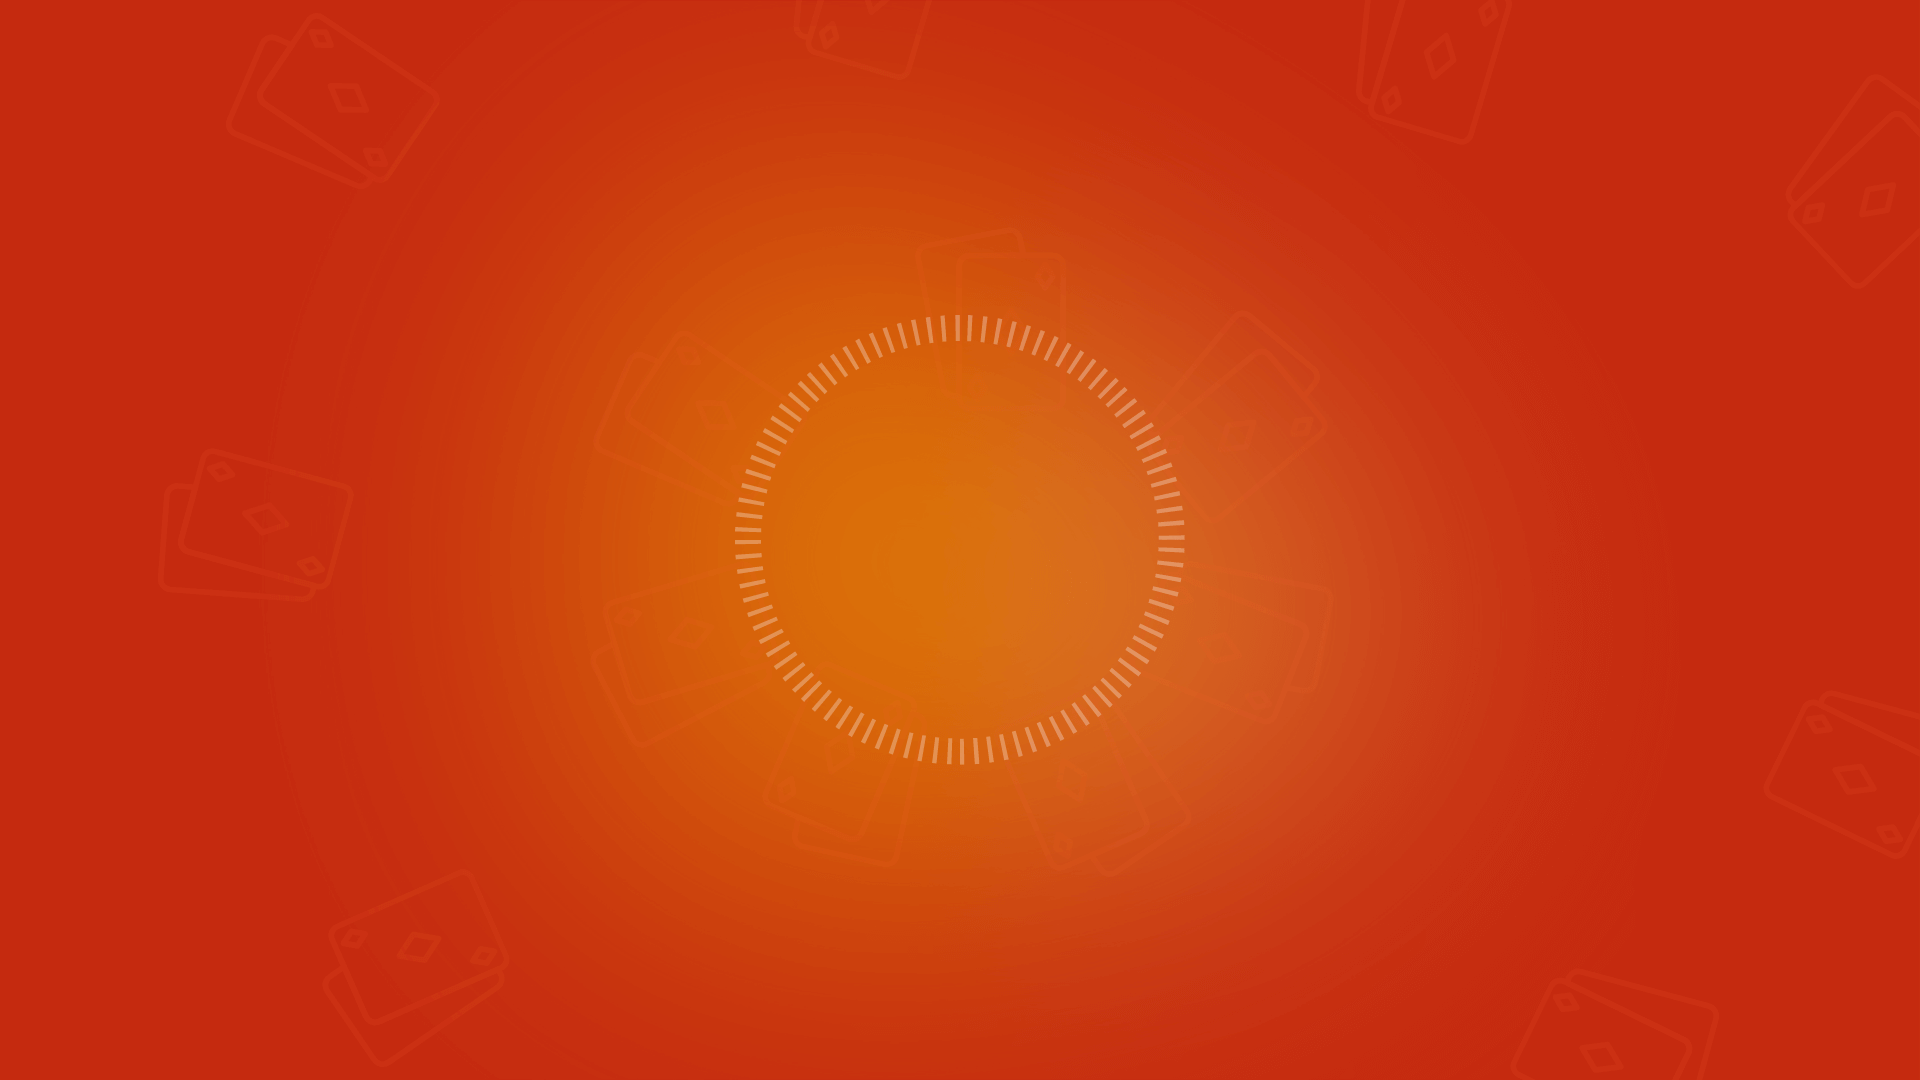
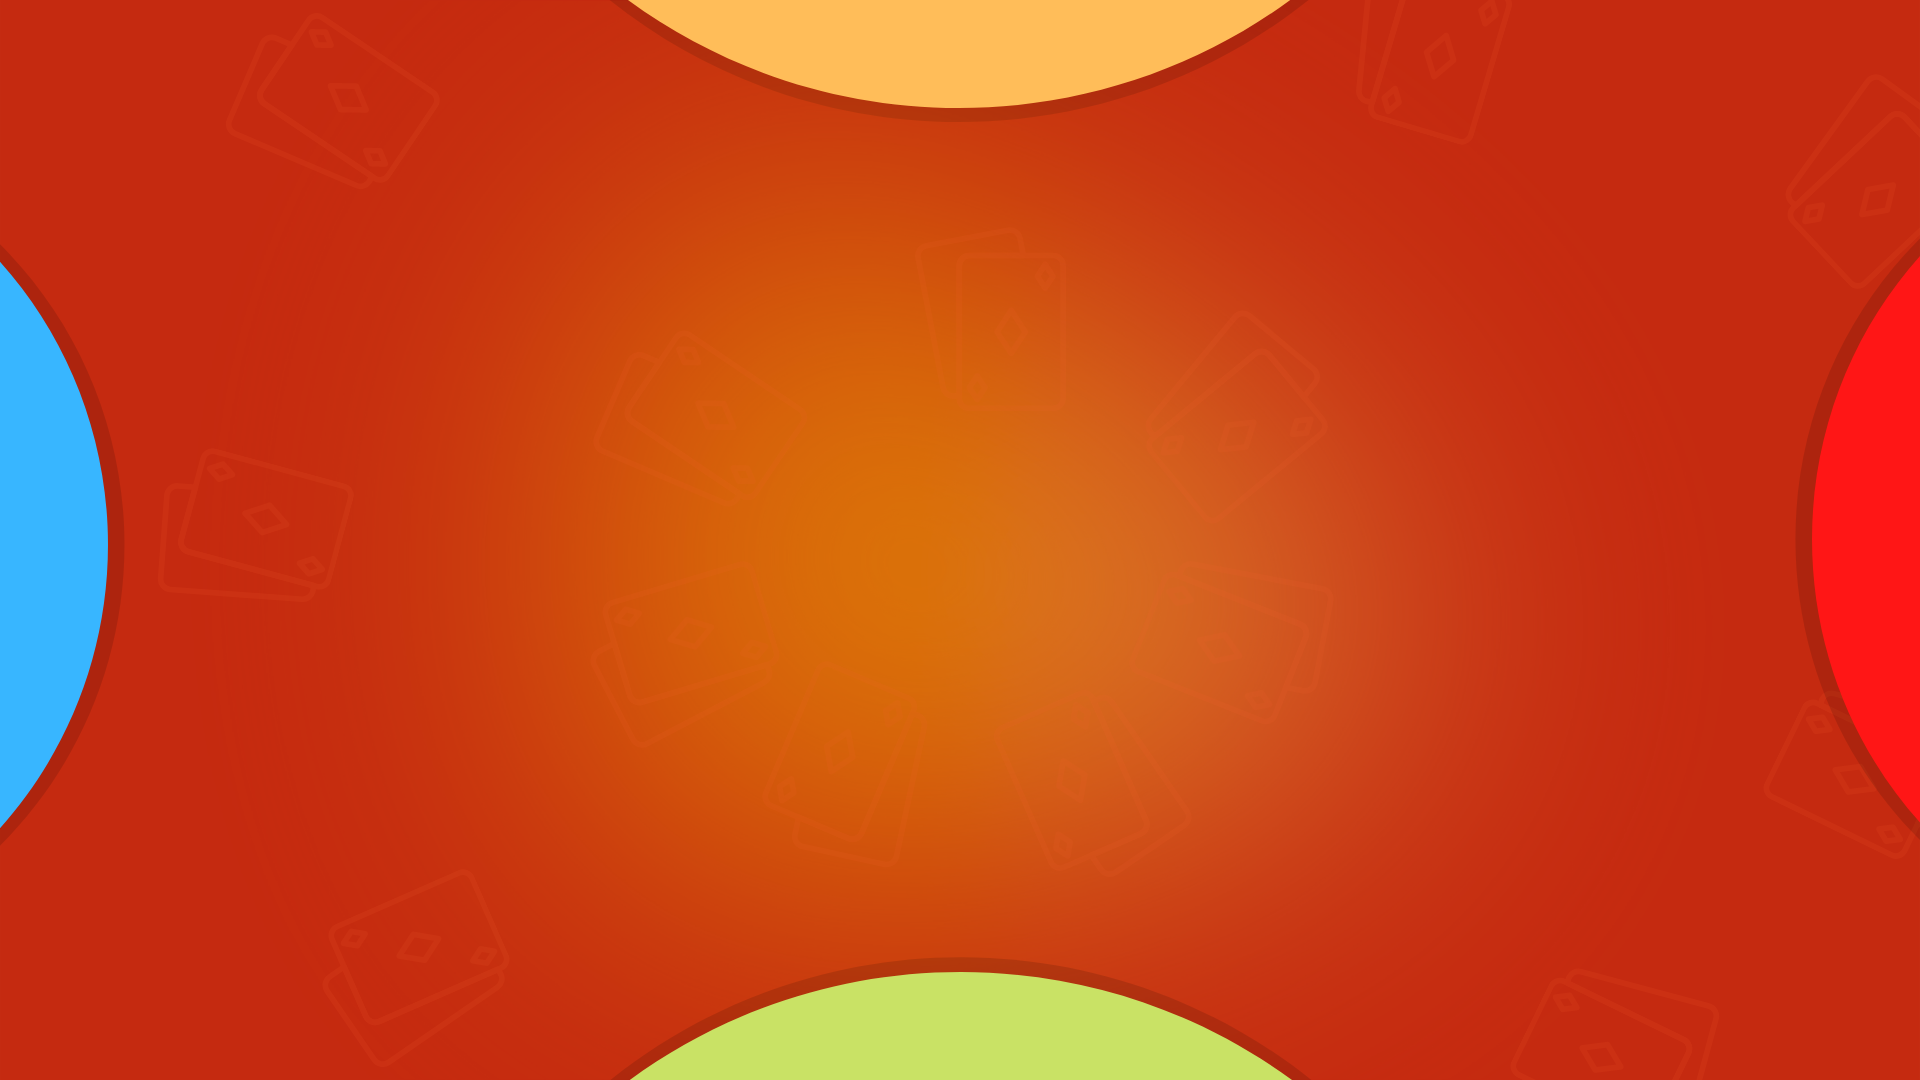
feat: add players

diff --git a/src/game/Controller/Deck/DeckController.ts b/src/game/Controller/Deck/DeckController.ts
@@ -1,6 +1,12 @@
 import CardDeck from "../../Objetcs/Entities/Cards/CardDeck";
 import DeckSprite from "../../../view/sprites/cards/DeckSprite";
 import SelectedCardSprite from "../../../view/sprites/cards/SelectedCardSprite";
+import Player from "../../Objetcs/Entities/Player/Player";
+import HandCardList from "../../Objetcs/Entities/Player/HandCardList";
+import PlayerRoundIterator from "../../Objetcs/Entities/Player/PlayerRoundIterator";
+import Sprite = Phaser.GameObjects.Sprite;
+import Text = Phaser.GameObjects.Text;
+import Image = Phaser.GameObjects.Image;
 
 export default class DeckController {
 
@@ -26,9 +32,12 @@ export default class DeckController {
     protected heightScreen: number;
 
     protected deckSprite: DeckSprite;
-    protected selectedCardSprite : SelectedCardSprite;
+    protected selectedCardSprite: SelectedCardSprite;
 
-    private readonly _cardSize : number = 0.2;
+    private readonly _cardSize: number = 0.2;
+    private midCircle: Sprite;
+
+    private playerRoundIterator: PlayerRoundIterator;
 
     constructor(scene: Phaser.Scene) {
         this.scene = scene;
@@ -37,8 +46,19 @@ export default class DeckController {
         this.heightScreen = this.scene.sys.game.canvas.height;
     }
 
-    public create(): void {
+    public start(): void {
         this.cardDeck.shuffle();
+        this.playerRoundIterator = new PlayerRoundIterator(this.createPlayers());
+
+        this.playerRoundIterator.players.map((player: Player, index: number) => {
+            this.scene.load.image(`player_user_photo_${index}`, player.picture);
+        });
+    }
+
+    public create(): void {
+        this.midCircle = this.scene.add.sprite(this.widthScreen / 2 + 24, this.heightScreen / 2 + 15, 'white-circle');
+        this.midCircle.setScale(1.4);
+
         this.createCardsUnderDeck();
 
         let shadow = this.scene.add.sprite((this.widthScreen / 2 + 80) + 3, (this.heightScreen / 2 + 15) + 3, 'Deck');
@@ -48,6 +68,64 @@ export default class DeckController {
 
         this.selectedCardSprite = new SelectedCardSprite(this.scene, this.widthScreen / 2 + 80, this.heightScreen / 2 + 15, this.cardDeck.cards[0]);
         this.selectedCardSprite.setScale(this._cardSize);
+
+
+        this.playerRoundIterator.players.map((player: Player, index: number) => {
+
+            let cardPositionX, cardPositionY, cardRotation = 0;
+            let uiPositionX, uiPositionY;
+
+            if (index === 0) {
+                cardPositionX = this.widthScreen / 2;
+                cardPositionY = this.heightScreen - 80;
+                cardRotation = 0;
+
+                uiPositionX = 140;
+                uiPositionY = this.heightScreen - 40;
+
+            } else if (index === 1) {
+                cardPositionX = this.widthScreen / 2;
+                cardPositionY = 80;
+                cardRotation = 0;
+
+                uiPositionX = this.widthScreen - 100;
+                uiPositionY = 40;
+
+            } else if (index === 2) {
+                cardPositionX = this.widthScreen - 80;
+                cardPositionY = this.heightScreen / 2;
+                cardRotation = 90;
+
+                uiPositionX = this.widthScreen - 80;
+                uiPositionY = this.heightScreen - 40;
+
+            } else if (index === 3) {
+                cardPositionX = 110;
+                cardPositionY = this.heightScreen / 2;
+                cardRotation = 270;
+
+                uiPositionX = 140;
+                uiPositionY = 40;
+
+            }
+
+            let playerText: Text = this.scene.make.text({
+                x: uiPositionX,
+                y: uiPositionY,
+                text: player.name,
+                style: {
+                    font: '20px monospace',
+                }
+            });
+
+            playerText.setOrigin(0.5, 0.5);
+            let playerImage: Image = this.scene.add.image(uiPositionX - 80, uiPositionY, `player_user_photo_${index}`);
+            playerImage.setScale(0.1);
+
+            let card: Sprite = this.scene.add.sprite(cardPositionX, cardPositionY, 'Deck');
+            card.setAngle(cardRotation);
+            card.setScale(this._cardSize);
+        });
     }
 
     /**
@@ -64,17 +142,35 @@ export default class DeckController {
             cardPositionX = this.widthScreen / 2 - 30;
             cardPositionY = ((this.heightScreen / 2) + 5) + (4 * i);
 
-            let shadow = this.scene.add.sprite(cardPositionX + 3, cardPositionY + 3, 'Deck');
+            let shadow: Sprite = this.scene.add.sprite(cardPositionX + 3, cardPositionY + 3, 'Deck');
             shadow.tint = 0x000000;
             shadow.alpha = 0.6;
             shadow.setScale(this._cardSize);
 
-            if(i == 1){
+            if (i == 1) {
                 this.deckSprite = new DeckSprite(this.scene, cardPositionX, cardPositionY);
                 this.deckSprite.setScale(this._cardSize);
             } else {
                 this.scene.add.sprite(cardPositionX, cardPositionY, 'Deck').setScale(this._cardSize);
             }
         }
+    }
+
+    private createPlayers(): Array<Player> {
+        let playersArray: Array<Player> = new Array<Player>();
+
+        for (let i = 0; i < 4; i++) {
+            let handCard: HandCardList = new HandCardList();
+
+            this.cardDeck.cards.splice(0, 7).map(c => {
+                handCard.addCard(c);
+            });
+
+            this.cardDeck.cards = this.cardDeck.cards.splice(7, this.cardDeck.cards.length);
+
+            playersArray.push(new Player(`Player ${i}`, 'https://i1.wp.com/terracoeconomico.com.br/wp-content/uploads/2019/01/default-user-image.png', handCard));
+        }
+
+        return playersArray;
     }
 }

diff --git a/src/view/scenes/PreloadScene.ts b/src/view/scenes/PreloadScene.ts
@@ -79,6 +79,7 @@ export default class PreloadScene extends Phaser.Scene {
         this.load.image('Table_2', 'assets/images/table/Table_2.png');
         this.load.image('Table_3', 'assets/images/table/Table_3.png');
         this.load.image('Table_4', 'assets/images/table/Table_4.png');
+        this.load.image('white-circle', 'assets/images/table/white-circle.png');
 
         this.load.image('Deck', `assets/images/cards/Deck.png`);
 
@@ -111,11 +112,11 @@ export default class PreloadScene extends Phaser.Scene {
     }
 
     public create() {
-        this.scene.start('MainScene');
+        //this.scene.start('MainScene');
 
-        // this.add.image(this.scene.systems.canvas.width / 2, this.scene.systems.canvas.height / 2, 'Logo');
-        // setTimeout(() => {
-        //     this.scene.start('MainScene');
-        // }, 2000)
+        this.add.image(this.scene.systems.canvas.width / 2, this.scene.systems.canvas.height / 2, 'Logo');
+        setTimeout(() => {
+            this.scene.start('MainScene');
+        }, 2000)
     }
 }

diff --git a/src/view/scenes/MainScene.ts b/src/view/scenes/MainScene.ts
@@ -11,15 +11,19 @@ export default class MainScene extends Phaser.Scene {
         });
     }
 
+    public preload(): void {
+        this.deckController = new DeckController(this);
+        this.deckController.start();
+    }
+
     public create(): void {
         this.scene.systems.canvas.style.transform = 'rotateX(30deg)';
 
-        this._backgroundImage = this.add.image(0, 0, 'Background')
-            .setSize(this.scene.systems.canvas.width, this.scene.systems.canvas.height)
-            .setScale(0.7)
-            .setOrigin(0,0);
+        this._backgroundImage = this.add.image(0, 0, 'Background').setOrigin(0,0);
 
-        this.deckController = new DeckController(this);
+        this._backgroundImage.displayWidth = this.sys.canvas.width;
+        this._backgroundImage.displayHeight = this.sys.canvas.height;
+
         this.deckController.create();
     }
 }

diff --git a/src/game/Objetcs/Entities/Player/PlayerRoundIterator.ts b/src/game/Objetcs/Entities/Player/PlayerRoundIterator.ts
@@ -1,3 +1,13 @@
-export default class PlayerRoundIterator{
+import Player from "./Player";
 
+export default class PlayerRoundIterator{
+    private readonly _players : Array<Player> = new Array<Player>();
+
+    constructor(players: Array<Player>) {
+        this._players = players;
+    }
+
+    get players(): Array<Player> {
+        return this._players;
+    }
 }
